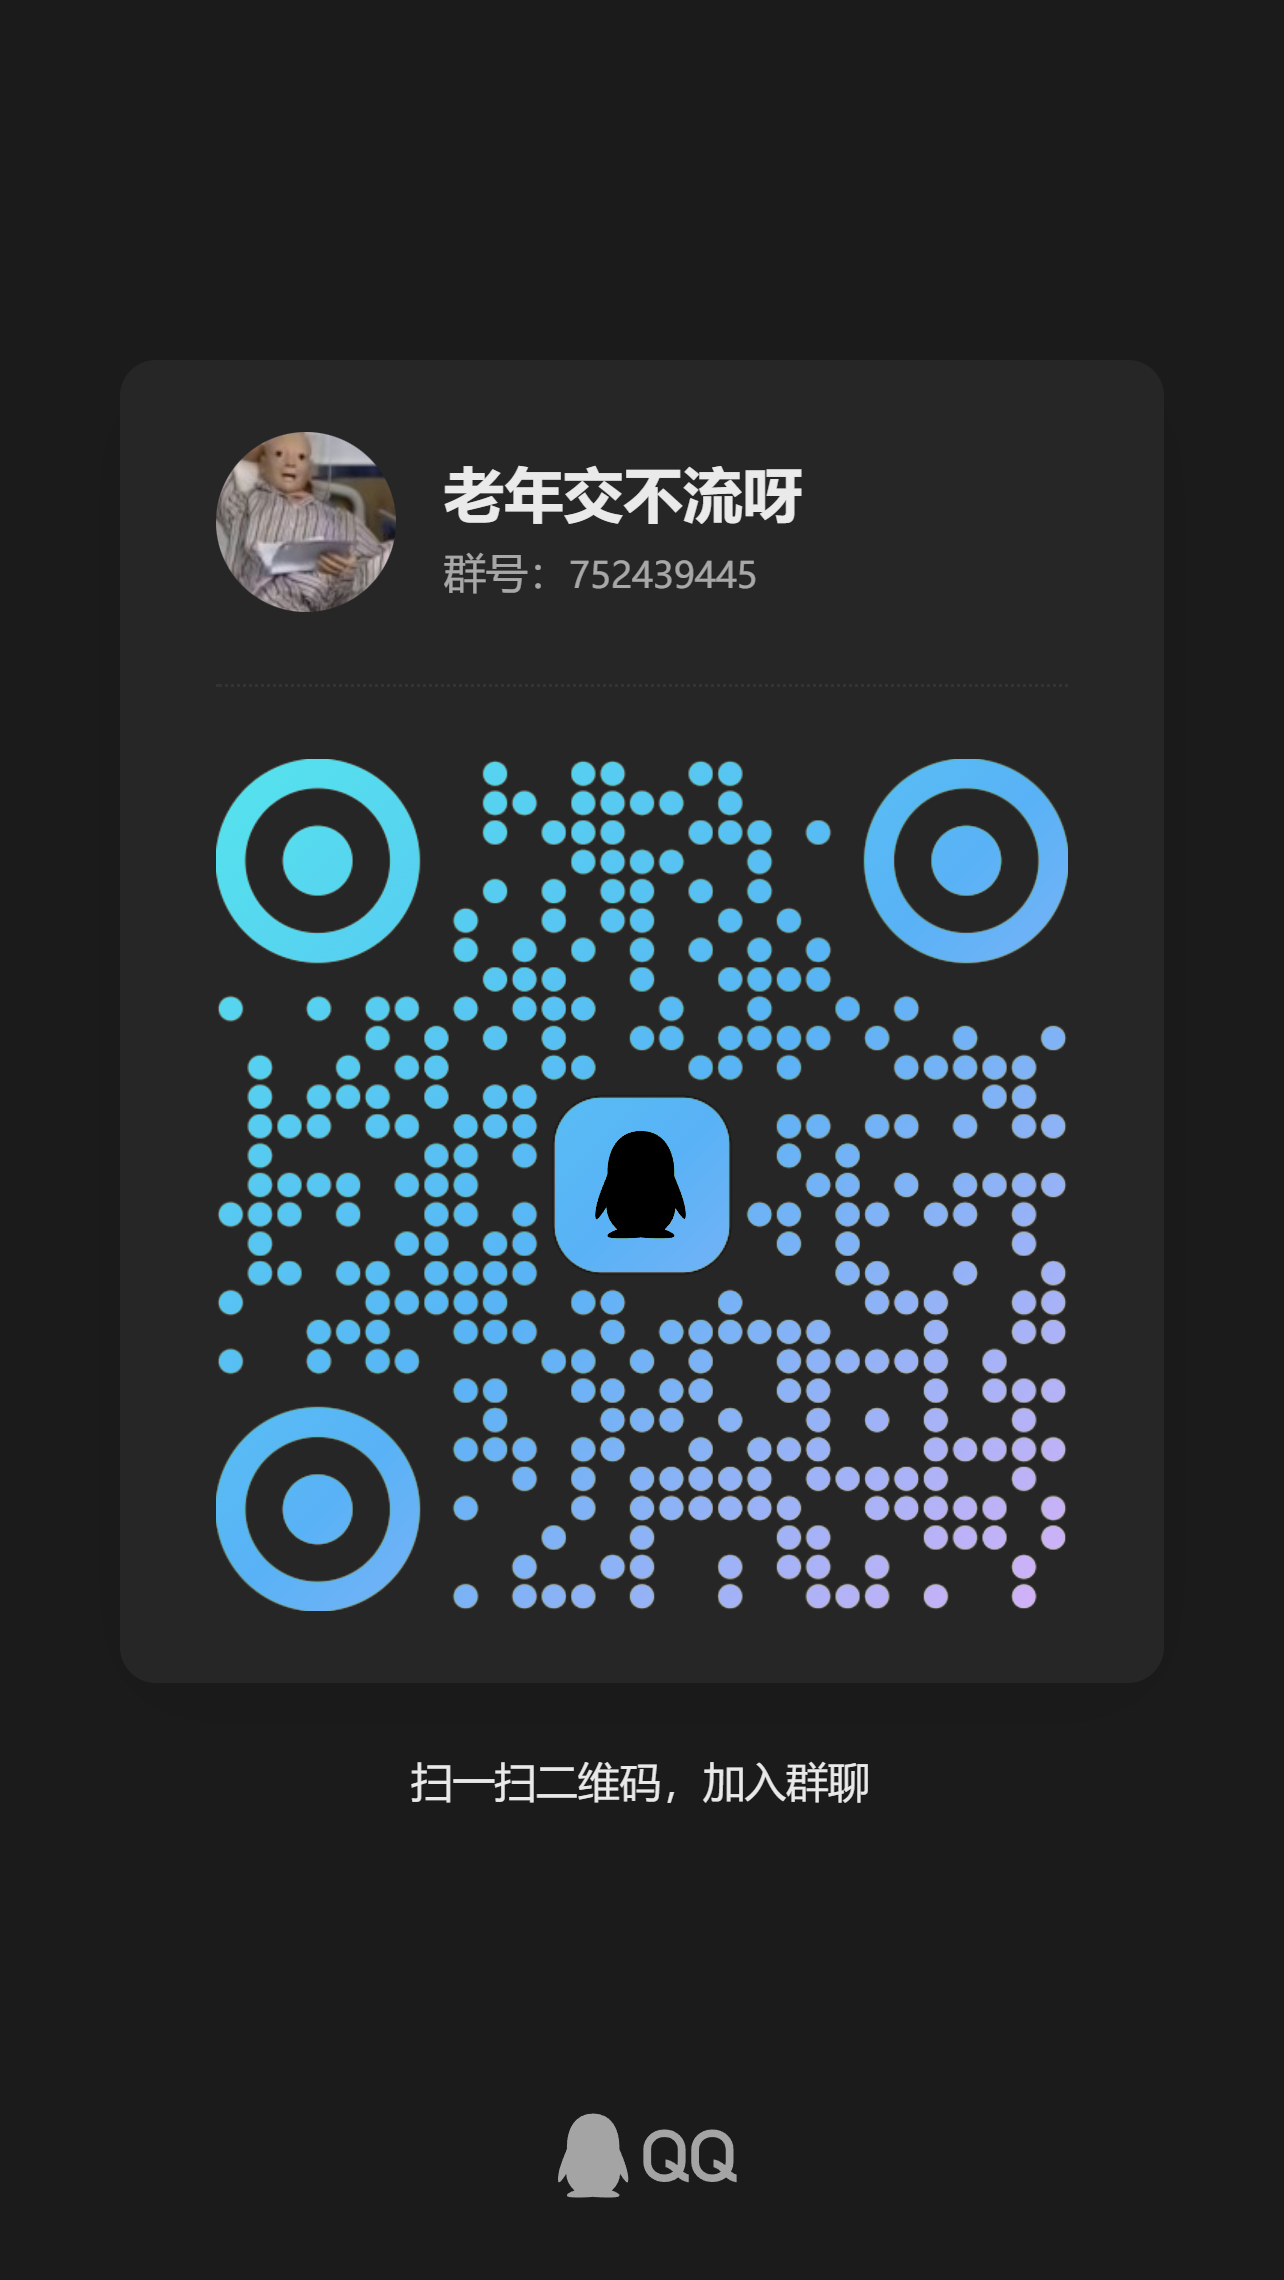
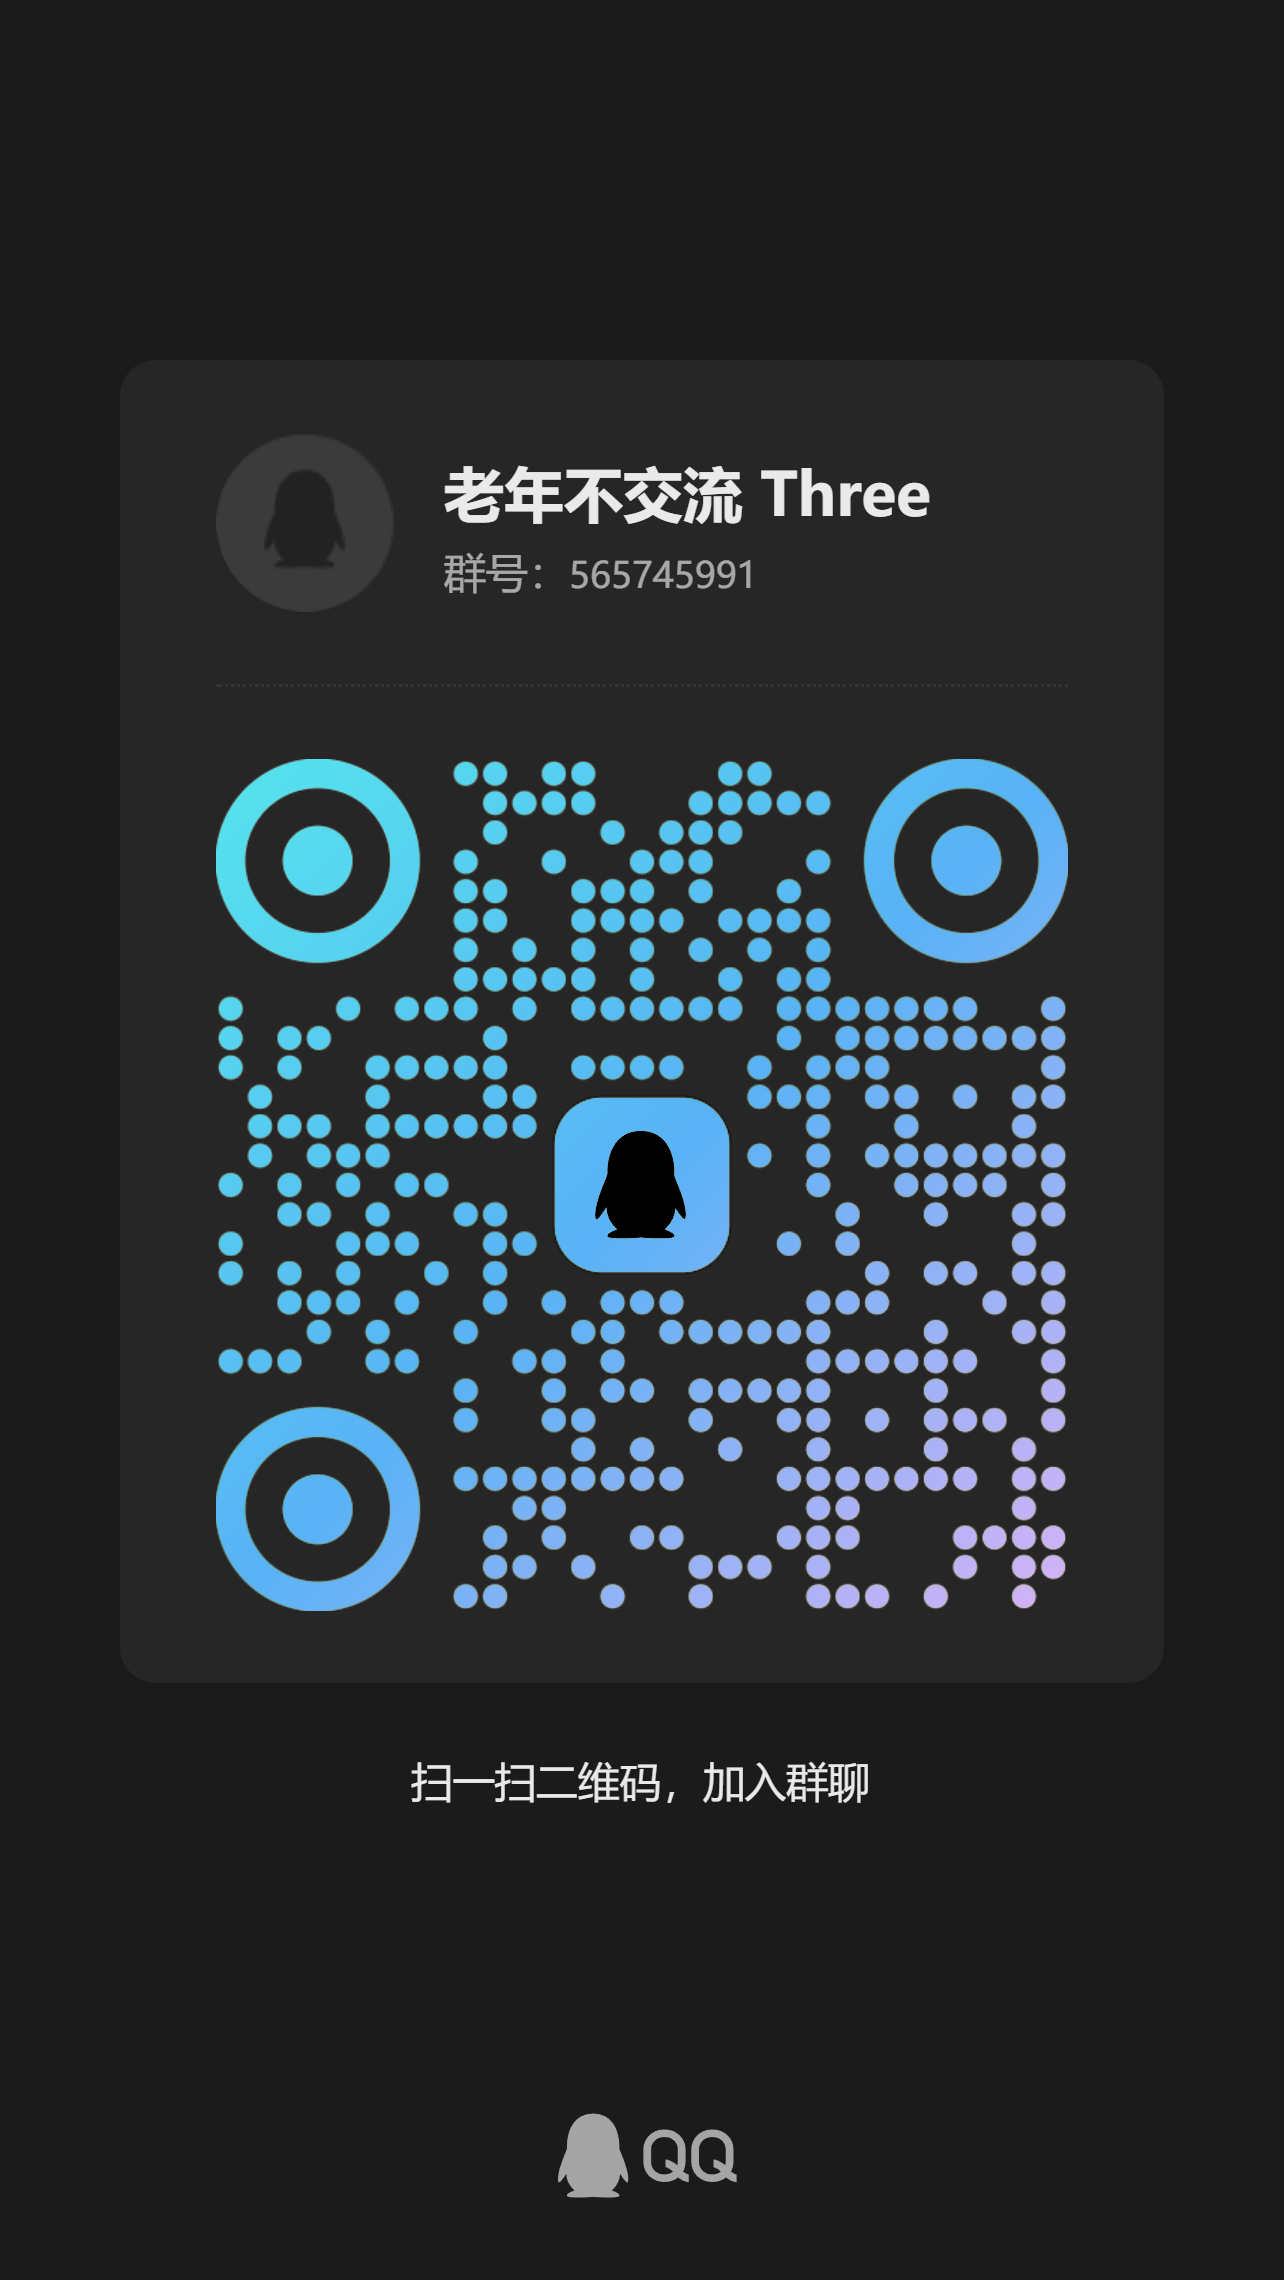
yancchen

diff --git a/README.md b/README.md
@@ -14,7 +14,7 @@
 >
 > 本工具完全免费，不进行任何收费
 >
-> 获取最新版本请加入QQ群：752439445
+> 获取最新版本请加入QQ群：565745991
 
 > 不直接发布在Github原因已经很明了，防止被倒卖。国内的开源环境就这样，差得很
 
@@ -228,17 +228,17 @@ sudo ./Yan_cursor_Change_ID_Auto
 你还有其他更好的想法吗？
 
 ## 💌 联系方式
-- QQ群：752439445
+- QQ群：565745991
 - 获取最新版本请加群下载
 - 技术交流请加群联系群主
 
 ## 🎁 打赏与交流
 > 如果觉得工具好用，可以请作者喝杯咖啡，同时加入QQ群获取更多技术支持！
 
-| 微信收款码 | 支付宝收款码 | QQ群邀请码（二群：752439445） |
+| 微信收款码 | 支付宝收款码 | QQ群邀请码（三群：565745991） |
 |:---------:|:-----------:|:---------:|
 | ![微信](./img/wx.png) | ![支付宝](./img/zfb.jpg) | ![QQ群](./img/qq2.jpg) |
-| 微信打赏 | 支付宝打赏 | QQ群：631250950（群满加二群） |
+| 微信打赏 | 支付宝打赏 | QQ群：565745991 |
 
 ## ⭐ 特别说明
 1. 本工具完全免费，谨防受骗
@@ -260,4 +260,4 @@ Journey - 提供的自动化思路
 
 **脚本更新在群里通知，上面只是文档**
 
-_如果觉得好用，请推荐给身边的朋友，一起加入QQ群：752439445
+_如果觉得好用，请推荐给身边的朋友，一起加入QQ群：565745991
